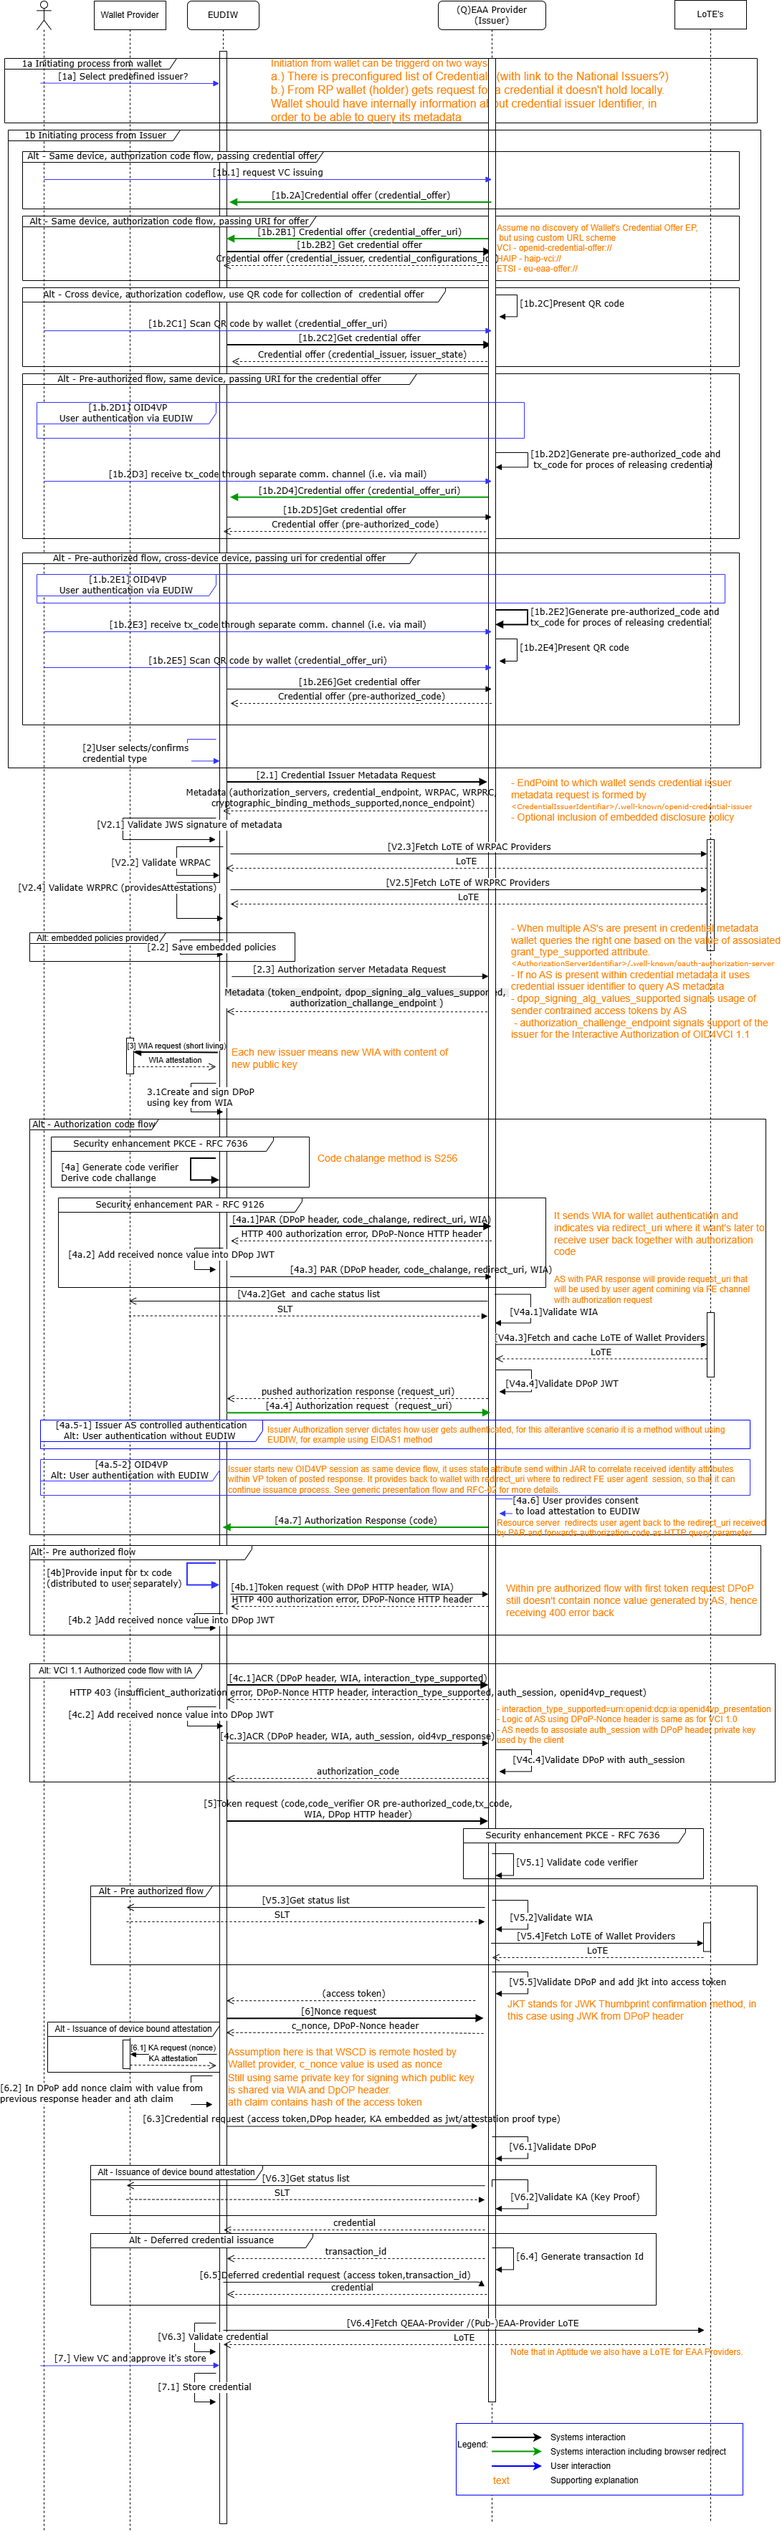
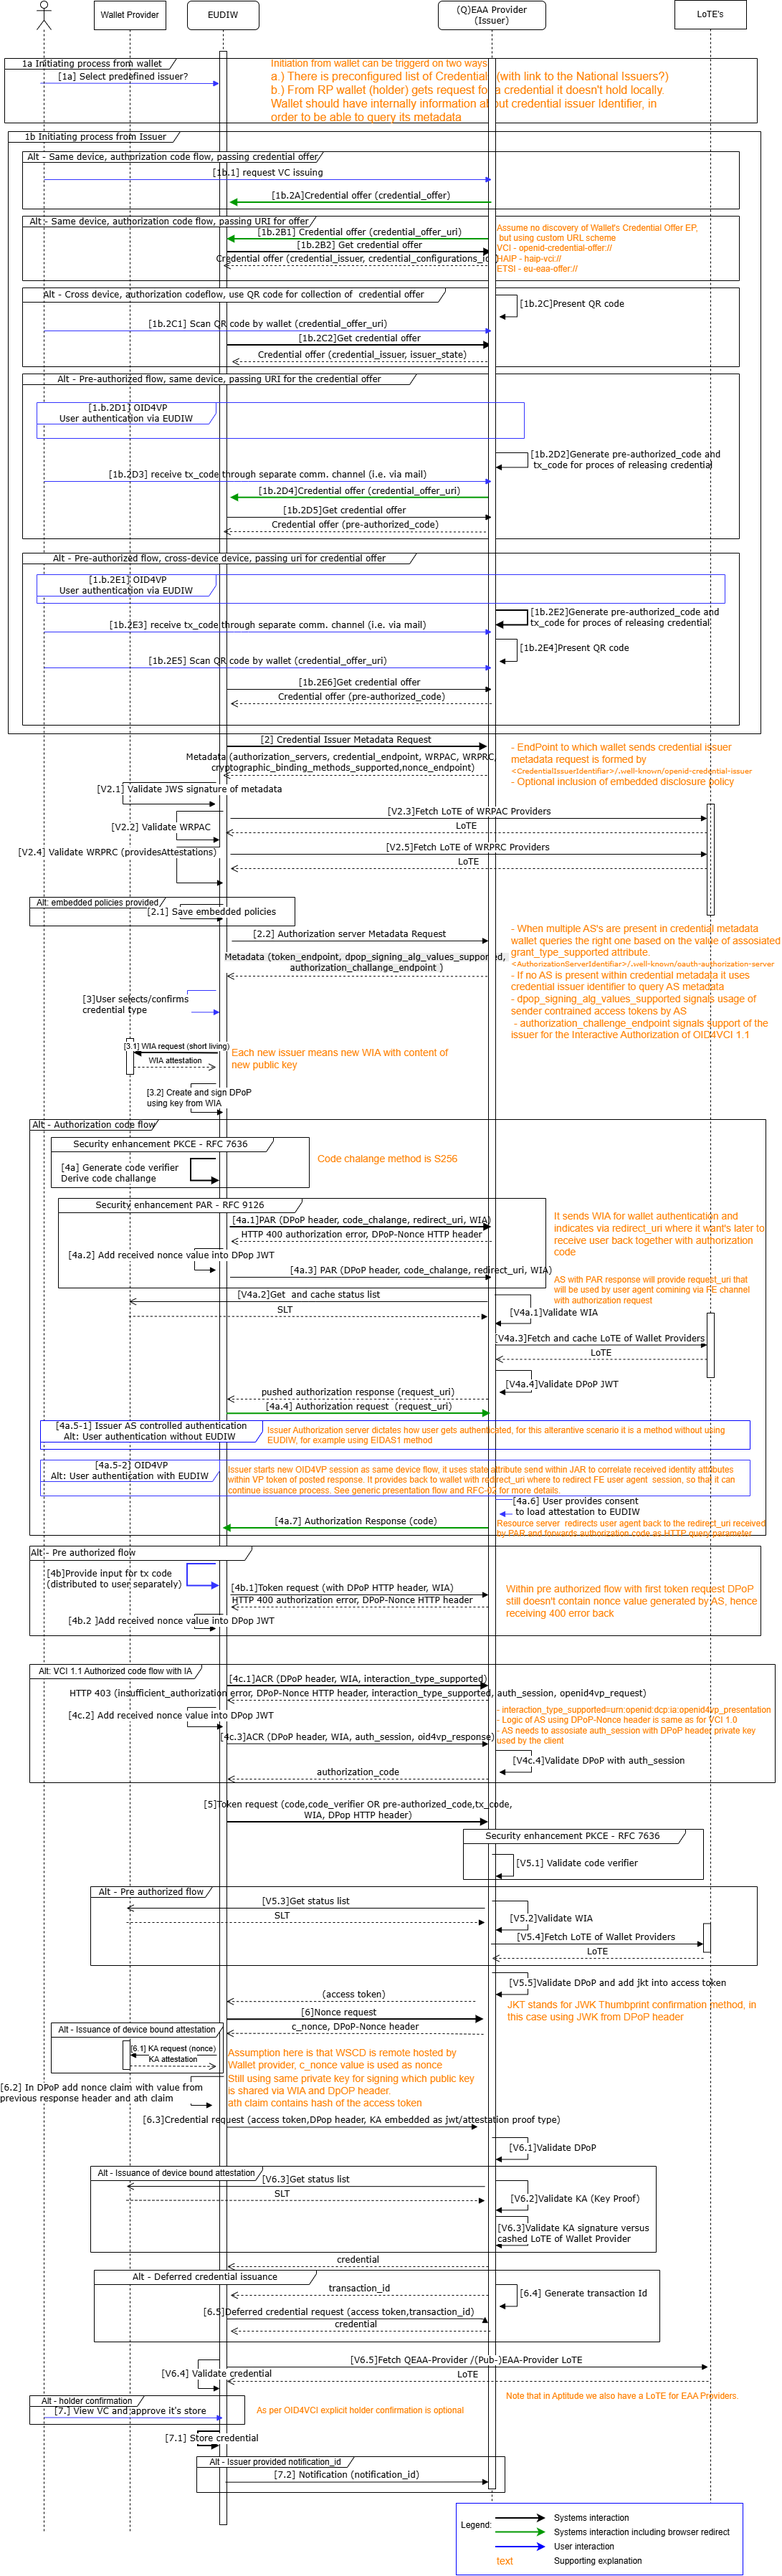
Processing Thomasz Sikorski input
Details in comments on PR

diff --git a/docs/wp2/generic-issuance-flow-specification.md b/docs/wp2/generic-issuance-flow-specification.md
@@ -7,7 +7,7 @@ Date 26-10-2026
 
 | Version# | Date| Description |
 |-----------|-------------|-----------|
-| 1.1 | 26-10-2026 | Added support for embedded user authentication during the credential issuance process, reformated the mapping section |
+| 1.1 | 27-11-2026 | Added support for embedded user authentication during the credential issuance process, reformated the mapping section |
 | 1.0 | 14-09-2026 | Initial delivery  |
 
 ## Authors
@@ -20,7 +20,7 @@ Date 26-10-2026
 
 1. Giancarlo Degani, Infocert
 2. Luca Vallone, IPZS
-3. ...
+3. Thomasz Sikorski, COI
 
 ## Table of Contents
 
@@ -312,15 +312,15 @@ Within the following diagram we introduce the LoTE Provider endpoint as specifie
 | 1a | Select issuer | The User starts issuance process by selecting preconfigured issuer within the wallet. See [OIDVCI–H6](https://openid.net/specs/openid-4-verifiable-credential-issuance-1_0.html#appendix-H.6)|
 | 1b.2A, 1b.2B1, 1b.2D4 | Credential Offer | The User starts issuance process from the Issuer, it uses same device holding its wallet app. Issuer prepares credential offer and invokes wallet app by passing the whole credential offer within the request or just passing uri reference to it. Additionally, in case of pre-authorized code flow issuance, the issuer authenticates the user and provides through a separate channel `tx_code`. See [RFC-01 6.2.2](../RFCs/RFC001.md#622-credential-offer-creation), [RFC-01 6.2.3](../RFCs/RFC001.md#623-credential-offer-delivery-and-wallet-invocation) and [RFC-01 8.1](../RFCs/RFC001.md#81-wallet-invocation-interface)|
 | 1b.2B2, 1b.2C, 1b.2D5, 1b.2E6 | Get Credential Offer | For cross-device and same device flow where wallet receives uri reference to the Credential Offer, it needs to retrieve it from the provided location. See [RFC-01 6.2.3](../RFCs/RFC001.md#623-credential-offer-delivery-and-wallet-invocation) and [RFC-01 8.2](../RFCs/RFC001.md#82-credential-offer-interface)|
-| 2.1 | Retrieve credential issuer metadata | Metadata object contains WRPAC and WRPRC and issuer may embed additional disclosure policies that wallet needs to persist and validate during the presentation session with RP. See [RFC-01 6.1.1](../RFCs/RFC001.md#611-configuration-and-discovery) and [RFC-01 8.9](../RFCs/RFC001.md#89-metadata-endpoints)|
+| 2 | Retrieve credential issuer metadata | Metadata object contains WRPAC and WRPRC and issuer may embed additional disclosure policies that wallet needs to persist and validate during the presentation session with RP. See [RFC-01 6.1.1](../RFCs/RFC001.md#611-configuration-and-discovery) and [RFC-01 8.9](../RFCs/RFC001.md#89-metadata-endpoints)|
 | V2.1 | Validate signature of provided metadata| See [RFC-01 7.7](../RFCs/RFC001.md#77-server-metadata)|
 | V2.2 | Validate WRPAC| See [Aptitude Authentication Process](https://aptitude-consortium.github.io/wp2-trust-specifications/latest/sections/trust-evaluation-process/#authentication-process) and  [Aptitude WRPAC](https://github.com/APTITUDE-Consortium/wp2-trust-specifications/blob/main/docs/topics/access-certificate.md) |
-| V2.3, V2.5, V4a.3, V5.4, V6.4 | Get LoTE | See [LoTE Validation Process](https://aptitude-consortium.github.io/wp2-trust-specifications/latest/sections/trust-evaluation-process/#list-of-trusted-entities-validation-process) and  [RFC-03 LoTE Endpoint](../RFCs/RFC003.md#71-lote-endpoint) |
+| V2.3, V2.5, V4a.3, V5.4, V6.5 | Get LoTE | See [LoTE Validation Process](https://aptitude-consortium.github.io/wp2-trust-specifications/latest/sections/trust-evaluation-process/#list-of-trusted-entities-validation-process) and  [RFC-03 LoTE Endpoint](../RFCs/RFC003.md#71-lote-endpoint) |
 | V2.4 | Validate WRPAC| See [Aptitude Authorization Process](https://aptitude-consortium.github.io/wp2-trust-specifications/latest/sections/trust-evaluation-process/#authentication-process) and  [Aptitude WRPAC](https://aptitude-consortium.github.io/wp2-trust-specifications/latest/sections/trust-artifacts/#wallet-relying-party-access-certificate) |
-| 2.2 | Process Embedded Policy | See [Aptitude embedded disclosure policies](https://github.com/APTITUDE-Consortium/wp2-trust-specifications/blob/main/docs/topics/embedded-disclosure-policy.md)|
-| 2.3 | Retrieve Authorization server metadata | Note that issuer signals to the wallet its support for interactive authorization by providing `authorization_challange_endpoint`. See [RFC-01 8.9](../RFCs/RFC001.md#89-metadata-endpoints)|
-| 3 | Obtain WIA | See [TS3 2.3.1](https://github.com/eu-digital-identity-wallet/eudi-doc-standards-and-technical-specifications/blob/main/docs/technical-specifications/ts3-wallet-unit-attestation.md#231-content-of-wia)|
-| 3.1, 4a.2, 4b.2, 4c.2, 6.2 | Create DPoP | See [IETF OAuth 2.0 Attestation-Based Client Authentication Draft 11 section 5.2](https://datatracker.ietf.org/doc/html/draft-ietf-oauth-attestation-based-client-auth-11#section-5.2)|
+| 2.1 | Process Embedded Policy | See [Aptitude embedded disclosure policies](https://github.com/APTITUDE-Consortium/wp2-trust-specifications/blob/main/docs/topics/embedded-disclosure-policy.md)|
+| 2.2 | Retrieve Authorization server metadata | Note that issuer signals to the wallet its support for interactive authorization by providing `authorization_challange_endpoint`. See [RFC-01 8.9](../RFCs/RFC001.md#89-metadata-endpoints)|
+| 3.1 | Obtain WIA | See [TS3 2.3.1](https://github.com/eu-digital-identity-wallet/eudi-doc-standards-and-technical-specifications/blob/main/docs/technical-specifications/ts3-wallet-unit-attestation.md#231-content-of-wia)|
+| 3.2, 4a.2, 4b.2, 4c.2, 6.2 | Create DPoP | See [IETF OAuth 2.0 Attestation-Based Client Authentication Draft 11 section 5.2](https://datatracker.ietf.org/doc/html/draft-ietf-oauth-attestation-based-client-auth-11#section-5.2)|
 | 4a.1, 4a.3 | PAR request |  See [RFC-01 6.1.3](../RFCs/RFC001.md#613-pushed-authorisation-request-par) and [RFC-01 8.3](../RFCs/RFC001.md#83-par-endpoint). Note that Issuer Authorization server forces fresh nonce value usage by providing initially error response as specified in RFC-01 6.1.3 item 4 and [RFC9449 section 8](https://www.rfc-editor.org/info/rfc9449/#section-8)|
 | V4a.1, V5.2 | Validate WIA | See [Sign/Seal Certificate Path Validation](https://aptitude-consortium.github.io/wp2-trust-specifications/latest/sections/trust-artifacts/#signseal-certificate-path-validation) |
 | V4a.2, V5.3, V6.3 | Get Status list | See [Token Status List](https://aptitude-consortium.github.io/wp2-trust-specifications/latest/sections/trust-management-lifecycle/#token-status-list) |
@@ -336,6 +336,7 @@ Within the following diagram we introduce the LoTE Provider endpoint as specifie
 | 6.3 | Credential request |  See [RFC-01 6.1.6](../RFCs/RFC001.md#616-credential-request), [RFC-01 6.2.7](../RFCs/RFC001.md#627-credential-request)  and [RFC-01 8.5](../RFCs/RFC001.md#85-credential-endpoint) |
 | V6.2 | Validate KA | See [Sign/Seal Certificate Path Validation](https://aptitude-consortium.github.io/wp2-trust-specifications/latest/sections/trust-artifacts/#signseal-certificate-path-validation) and [TS3 2.5.2](https://github.com/eu-digital-identity-wallet/eudi-doc-standards-and-technical-specifications/blob/main/docs/technical-specifications/ts3-wallet-unit-attestation.md#252-ka-revocation) |
 | 6.5 | Deferred Credential request |  See [RFC-01 6.3](../RFCs/RFC001.md#63-deferred-credential-request), [RFC-01 7.6](../RFCs/RFC001.md#76-deferred-credential-endpoint)  and [RFC-01 8.8](../RFCs/RFC001.md#88-deferred-credential-endpoint) |
+| 7.2 | Notification Request| See [RFC-01 8.7](../RFCs/RFC001.md#87-notification-interface)|
 
 \[^1]: Scheduled statuslist checks on WIAs/KAs and attestation life cycle event notifications from wallet instance towards Issuer are not showned within the sequence diagram, as they do not occur during the actual credential issuance process.
 
